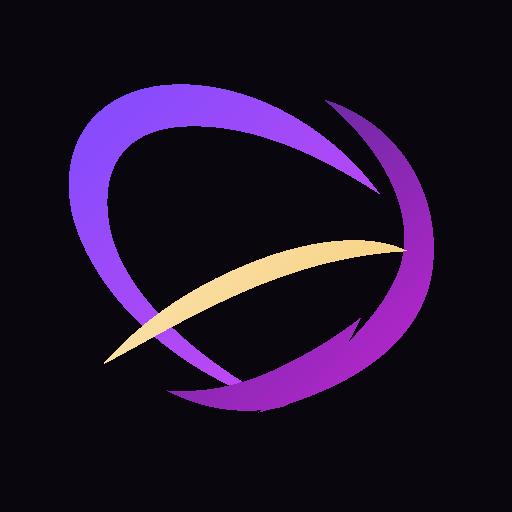
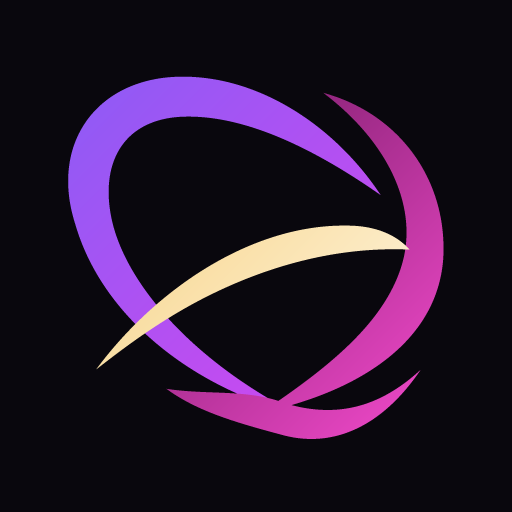
Smooth the canonical brand mark (#17)

diff --git a/viewer/index.html b/viewer/index.html
@@ -14,13 +14,13 @@
     <div class="brand-lockup">
       <svg class="brand-mark" viewBox="0 0 32 32" role="img" aria-label="Quatopsy" data-brand-version="quatopsy.brand/2">
         <defs>
-          <linearGradient id="brand-ribbon-a" x1="0" y1="0" x2="1" y2="1"><stop stop-color="#7c4dff"/><stop offset="1" stop-color="#d946ef"/></linearGradient>
-          <linearGradient id="brand-ribbon-b" x1="0" y1="1" x2="1" y2="0"><stop stop-color="#312e81"/><stop offset="1" stop-color="#c026d3"/></linearGradient>
-          <linearGradient id="brand-ribbon-c" x1="0" y1="0" x2="1" y2="0"><stop stop-color="#fff1d6"/><stop offset="1" stop-color="#f5c96a"/></linearGradient>
+          <linearGradient id="brand-ribbon-a" gradientUnits="userSpaceOnUse" x1="5" y1="6" x2="20" y2="26"><stop stop-color="#8b5cf6"/><stop offset="0.48" stop-color="#b445eb"/><stop offset="1" stop-color="#d946ef"/></linearGradient>
+          <linearGradient id="brand-ribbon-b" gradientUnits="userSpaceOnUse" x1="12" y1="26" x2="27" y2="8"><stop stop-color="#58104f"/><stop offset="0.52" stop-color="#b21eaa"/><stop offset="1" stop-color="#ec48c6"/></linearGradient>
+          <linearGradient id="brand-ribbon-c" gradientUnits="userSpaceOnUse" x1="6" y1="22" x2="26" y2="15"><stop stop-color="#f5c96a"/><stop offset="0.45" stop-color="#fff1d6"/><stop offset="1" stop-color="#fff8e8"/></linearGradient>
         </defs>
-        <path d="M4.6 13.8 C3.4 9.2 5.8 5.7 10.4 5.3 C15.5 4.9 20.8 8.0 23.8 12.2 C20.3 9.9 16.1 7.8 11.8 7.9 C8.0 8.0 6.3 10.2 6.8 13.8 C7.4 18.0 11.8 22.2 17.8 25.4 C12.0 23.8 6.3 19.3 4.6 13.8 Z" fill="url(#brand-ribbon-a)"/>
-        <path d="M20.2 6.2 C24.6 7.5 27.4 11.6 27.1 16.2 C26.8 21.3 22.1 24.3 16.1 25.8 C19.7 23.4 23.3 20.6 24.8 17.2 C26.2 13.9 24.4 9.7 20.2 6.2 Z M17.8 25.4 C15.3 26.0 12.6 25.6 10.4 24.4 C13.0 24.6 15.4 24.0 17.8 22.8 C19.4 22.0 21.1 21.0 22.6 19.8 C21.4 22.4 19.9 24.2 17.8 25.4 Z" fill="url(#brand-ribbon-b)"/>
-        <path d="M6.4 22.8 C9.2 19.6 12.8 17.4 16.8 16.0 C20.0 14.9 23.3 14.6 25.5 15.7 C21.4 15.9 17.6 17.1 14.0 18.8 C10.8 20.3 8.2 21.9 6.4 22.8 Z" fill="url(#brand-ribbon-c)"/>
+        <path d="M4.7 14.0 C3.1 9.0 6.0 5.0 11.0 4.8 C16.0 4.6 20.9 7.8 23.8 12.2 C19.8 9.4 15.3 7.1 11.3 7.3 C7.7 7.5 6.2 10.2 7.0 13.8 C8.0 18.1 12.5 22.8 18.6 25.9 C12.2 24.3 6.4 19.9 4.7 14.0 Z" fill="url(#brand-ribbon-a)"/>
+        <path d="M20.2 5.8 C25.0 7.1 28.0 11.3 27.7 16.2 C27.3 21.4 22.4 24.5 16.3 25.8 C20.5 23.0 24.0 20.2 25.1 16.6 C26.2 13.0 24.3 8.9 20.2 5.8 Z M17.8 25.2 C21.1 26.2 23.8 25.4 26.3 23.1 C23.8 26.8 20.7 28.0 17.7 27.2 C14.7 26.4 12.3 25.7 10.4 24.3 C13.0 24.7 15.5 24.3 17.8 25.2 Z" fill="url(#brand-ribbon-b)"/>
+        <path d="M6.0 23.1 C9.7 18.1 15.7 14.0 21.7 14.1 C23.5 14.1 24.8 14.7 25.6 15.6 C21.1 15.4 16.8 16.6 13.0 18.5 C9.8 20.1 7.3 22.1 6.0 23.1 Z" fill="url(#brand-ribbon-c)"/>
       </svg>
       <div>
         <p class="eyebrow">See where rotations go wrong.</p>

diff --git a/scripts/brandkit.py b/scripts/brandkit.py
@@ -185,9 +185,9 @@ def antipodal_direction_svg(ink: str, accent: str, *, bg: str | None = None) -> 
     return svg_wrap(ring + chord + dots, bg=bg)
 
 
-RIBBON_A = "M4.6 13.8 C3.4 9.2 5.8 5.7 10.4 5.3 C15.5 4.9 20.8 8.0 23.8 12.2 C20.3 9.9 16.1 7.8 11.8 7.9 C8.0 8.0 6.3 10.2 6.8 13.8 C7.4 18.0 11.8 22.2 17.8 25.4 C12.0 23.8 6.3 19.3 4.6 13.8 Z"
-RIBBON_B = "M20.2 6.2 C24.6 7.5 27.4 11.6 27.1 16.2 C26.8 21.3 22.1 24.3 16.1 25.8 C19.7 23.4 23.3 20.6 24.8 17.2 C26.2 13.9 24.4 9.7 20.2 6.2 Z M17.8 25.4 C15.3 26.0 12.6 25.6 10.4 24.4 C13.0 24.6 15.4 24.0 17.8 22.8 C19.4 22.0 21.1 21.0 22.6 19.8 C21.4 22.4 19.9 24.2 17.8 25.4 Z"
-RIBBON_C = "M6.4 22.8 C9.2 19.6 12.8 17.4 16.8 16.0 C20.0 14.9 23.3 14.6 25.5 15.7 C21.4 15.9 17.6 17.1 14.0 18.8 C10.8 20.3 8.2 21.9 6.4 22.8 Z"
+RIBBON_A = "M4.7 14.0 C3.1 9.0 6.0 5.0 11.0 4.8 C16.0 4.6 20.9 7.8 23.8 12.2 C19.8 9.4 15.3 7.1 11.3 7.3 C7.7 7.5 6.2 10.2 7.0 13.8 C8.0 18.1 12.5 22.8 18.6 25.9 C12.2 24.3 6.4 19.9 4.7 14.0 Z"
+RIBBON_B = "M20.2 5.8 C25.0 7.1 28.0 11.3 27.7 16.2 C27.3 21.4 22.4 24.5 16.3 25.8 C20.5 23.0 24.0 20.2 25.1 16.6 C26.2 13.0 24.3 8.9 20.2 5.8 Z M17.8 25.2 C21.1 26.2 23.8 25.4 26.3 23.1 C23.8 26.8 20.7 28.0 17.7 27.2 C14.7 26.4 12.3 25.7 10.4 24.3 C13.0 24.7 15.5 24.3 17.8 25.2 Z"
+RIBBON_C = "M6.0 23.1 C9.7 18.1 15.7 14.0 21.7 14.1 C23.5 14.1 24.8 14.7 25.6 15.6 C21.1 15.4 16.8 16.6 13.0 18.5 C9.8 20.1 7.3 22.1 6.0 23.1 Z"
 
 
 def symbol_body(*, mono: str | None = None, small: bool = False) -> str:
@@ -196,18 +196,15 @@ def symbol_body(*, mono: str | None = None, small: bool = False) -> str:
     if small:
         return (
             '<g transform="translate(-4,-4) scale(1.25)">'
-            '<path d="M5 14 C3.8 9 6.5 5.5 11 5.3 C16 5.1 21.2 8.1 24 12.2 '
-            'C19.6 9.4 14.3 7.4 10.2 8.5 C6.4 9.6 6.8 14.2 9.2 18 C11.5 21.6 14.8 23.8 18.3 25.5 '
-            'C12.1 24.3 6.4 20 5 14 Z" fill="#b342e8"/>'
-            '<path d="M20.2 6.2 C25 8 27.5 12 27 16.6 C26.4 21.2 22.1 24.5 16.2 25.8 '
-            'C20.1 22.8 23.4 19.9 24.7 16.8 C26 13.5 24.1 9.4 20.2 6.2 Z" fill="#d52eb2"/>'
+            f'<path d="{RIBBON_A}" fill="#b342e8"/>'
+            f'<path d="{RIBBON_B}" fill="#d52eb2"/>'
             '</g>'
         )
     return (
         '<defs>'
-        '<linearGradient id="qa" x1="0" y1="0" x2="1" y2="1"><stop stop-color="#7c4dff"/><stop offset="1" stop-color="#d946ef"/></linearGradient>'
-        '<linearGradient id="qb" x1="0" y1="1" x2="1" y2="0"><stop stop-color="#312e81"/><stop offset="1" stop-color="#c026d3"/></linearGradient>'
-        '<linearGradient id="qc" x1="0" y1="0" x2="1" y2="0"><stop stop-color="#fff1d6"/><stop offset="1" stop-color="#f5c96a"/></linearGradient>'
+        '<linearGradient id="qa" gradientUnits="userSpaceOnUse" x1="5" y1="6" x2="20" y2="26"><stop stop-color="#8b5cf6"/><stop offset="0.48" stop-color="#b445eb"/><stop offset="1" stop-color="#d946ef"/></linearGradient>'
+        '<linearGradient id="qb" gradientUnits="userSpaceOnUse" x1="12" y1="26" x2="27" y2="8"><stop stop-color="#58104f"/><stop offset="0.52" stop-color="#b21eaa"/><stop offset="1" stop-color="#ec48c6"/></linearGradient>'
+        '<linearGradient id="qc" gradientUnits="userSpaceOnUse" x1="6" y1="22" x2="26" y2="15"><stop stop-color="#f5c96a"/><stop offset="0.45" stop-color="#fff1d6"/><stop offset="1" stop-color="#fff8e8"/></linearGradient>'
         '</defs>'
         f'<path d="{RIBBON_A}" fill="url(#qa)"/>'
         f'<path d="{RIBBON_B}" fill="url(#qb)"/>'
@@ -574,23 +571,64 @@ def raster_symbol(size: int, ink: str, accent: str, bg: str, *, small: bool = Fa
     del ink, accent
     scale = size / 32.0
     background = hex_rgb(bg)
-    a0, a1 = hex_rgb("#7c4dff"), hex_rgb("#d946ef")
-    b0, b1 = hex_rgb("#312e81"), hex_rgb("#c026d3")
-    c0, c1 = hex_rgb("#fff1d6"), hex_rgb("#f5c96a")
-    pixels = bytearray(size * size * 4)
-    shapes = [(flatten_cubic_path(RIBBON_A), a0, a1), (flatten_cubic_path(RIBBON_B), b0, b1)]
+    a0, a1 = hex_rgb("#8b5cf6"), hex_rgb("#d946ef")
+    b0, b1 = hex_rgb("#58104f"), hex_rgb("#ec48c6")
+    c0, c1 = hex_rgb("#f5c96a"), hex_rgb("#fff8e8")
+    supersample = 4
+    canvas_size = size * supersample
+    canvas = bytearray(bytes(background) * (canvas_size * canvas_size))
+    shapes = [(flatten_cubic_path(RIBBON_A, 96), a0, a1), (flatten_cubic_path(RIBBON_B, 96), b0, b1)]
     if not small or size >= 32:
-        shapes.append((flatten_cubic_path(RIBBON_C), c0, c1))
+        shapes.append((flatten_cubic_path(RIBBON_C, 96), c0, c1))
+
+    def canvas_point(point: tuple[float, float]) -> tuple[float, float]:
+        x, y = point
+        if small:
+            x, y = 1.25 * x - 4, 1.25 * y - 4
+        return x * scale * supersample, y * scale * supersample
+
+    # Scan-convert at 4x resolution and box-filter down. This keeps the raster
+    # silhouette faithful to the canonical cubic paths without platform font or
+    # graphics-library dependencies.
+    for polygons, start, end in shapes:
+        for polygon in polygons:
+            transformed = tuple(canvas_point(point) for point in polygon)
+            min_y = max(0, math.floor(min(point[1] for point in transformed)))
+            max_y = min(canvas_size, math.ceil(max(point[1] for point in transformed)))
+            for y in range(min_y, max_y):
+                sample_y = y + 0.5
+                intersections: list[float] = []
+                previous = transformed[-1]
+                for current in transformed:
+                    x1, y1 = previous
+                    x2, y2 = current
+                    if (y1 > sample_y) != (y2 > sample_y):
+                        intersections.append(x1 + (sample_y - y1) * (x2 - x1) / (y2 - y1))
+                    previous = current
+                intersections.sort()
+                for left, right in zip(intersections[0::2], intersections[1::2]):
+                    first = max(0, math.ceil(left - 0.5))
+                    last = min(canvas_size, math.ceil(right - 0.5))
+                    for x in range(first, last):
+                        px = (x + 0.5) / (scale * supersample)
+                        py = (y + 0.5) / (scale * supersample)
+                        if small:
+                            px, py = (px + 4) / 1.25, (py + 4) / 1.25
+                        t = max(0.0, min(1.0, (px + py - 8) / 44))
+                        colour = mix(start, end, t)
+                        i = (y * canvas_size + x) * 3
+                        canvas[i : i + 3] = bytes(colour)
+
+    pixels = bytearray(size * size * 4)
     for y in range(size):
         for x in range(size):
-            px, py = (x + 0.5) / scale, (y + 0.5) / scale
-            if small:
-                px, py = (px + 4) / 1.25, (py + 4) / 1.25
-            colour = background
-            for polygons, start, end in shapes:
-                if any(inside_polygon(px, py, polygon) for polygon in polygons):
-                    t = max(0.0, min(1.0, (px + py - 8) / 44))
-                    colour = mix(start, end, t)
+            channels = [0, 0, 0]
+            for sy in range(y * supersample, (y + 1) * supersample):
+                for sx in range(x * supersample, (x + 1) * supersample):
+                    i = (sy * canvas_size + sx) * 3
+                    for channel in range(3):
+                        channels[channel] += canvas[i + channel]
+            colour = tuple(round(value / supersample**2) for value in channels)
             i = (y * size + x) * 4
             pixels[i : i + 4] = bytes((*colour, 255))
     return bytes(pixels)

diff --git a/crates/quatopsy-cli/tests/view.rs b/crates/quatopsy-cli/tests/view.rs
@@ -147,7 +147,9 @@ fn viewer_assets_meet_keyboard_contrast_and_text_state_requirements() {
     assert!(html.contains("data-brand-version=\"quatopsy.brand/2\""));
     assert!(html.contains("See where rotations go wrong."));
     assert!(html.contains("brand-ribbon-a"));
-    assert!(html.contains("#7c4dff") && html.contains("#d946ef"));
+    assert!(html.contains("#8b5cf6") && html.contains("#d946ef"));
+    assert!(html.contains("#58104f") && html.contains("#ec48c6"));
+    assert!(html.contains("#f5c96a") && html.contains("#fff8e8"));
     assert!(html.contains("viewBox=\"0 0 32 32\""));
     assert!(html.contains("aria-live=\"polite\""));
     assert!(html.contains("role=\"status\""));

diff --git a/CHANGELOG.md b/CHANGELOG.md
@@ -19,6 +19,7 @@
 
 ### Fixed
 
+- Brand raster exports now use deterministic 4x supersampled scan conversion, and the canonical ribbon geometry retains the broad curves and folded lower return of the owner-approved concept instead of a faceted approximation.
 - M6-M8 hardening makes pointing weights effective, models redundant-wheel momentum per wheel, bounds delay/profile/schedule work, aligns delayed star updates to the filter epoch, records per-update NIS/NEES, makes canonical control artifacts reproducible, and gives PIL/HIL workers bounded messages and response deadlines.
 - Control plant applies magnetic residual and gravity-gradient torque to Euler's equation only. Stored wheel momentum follows motor torque.
 - Logged control CSV torque is the plant-applied body torque after command-to-torque lag and declared environmental models. The initial sample is zero.
